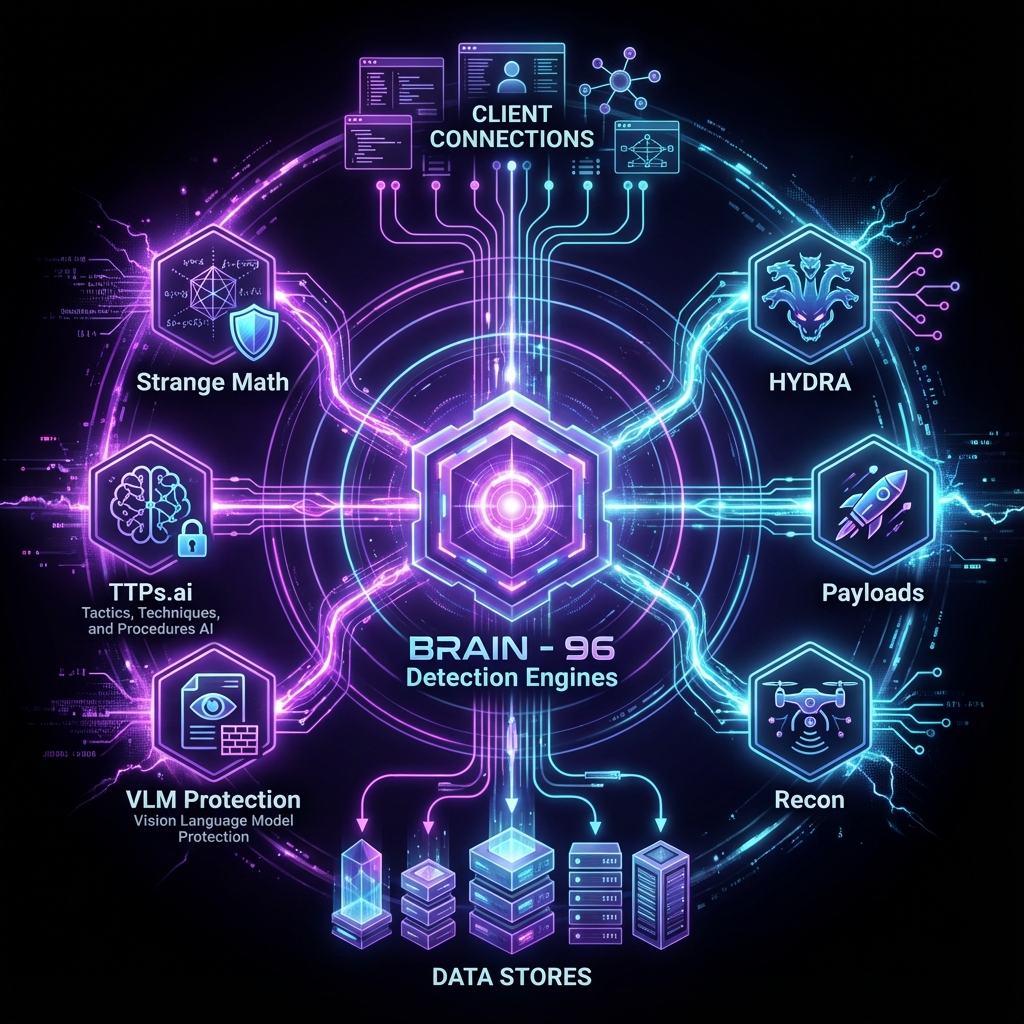
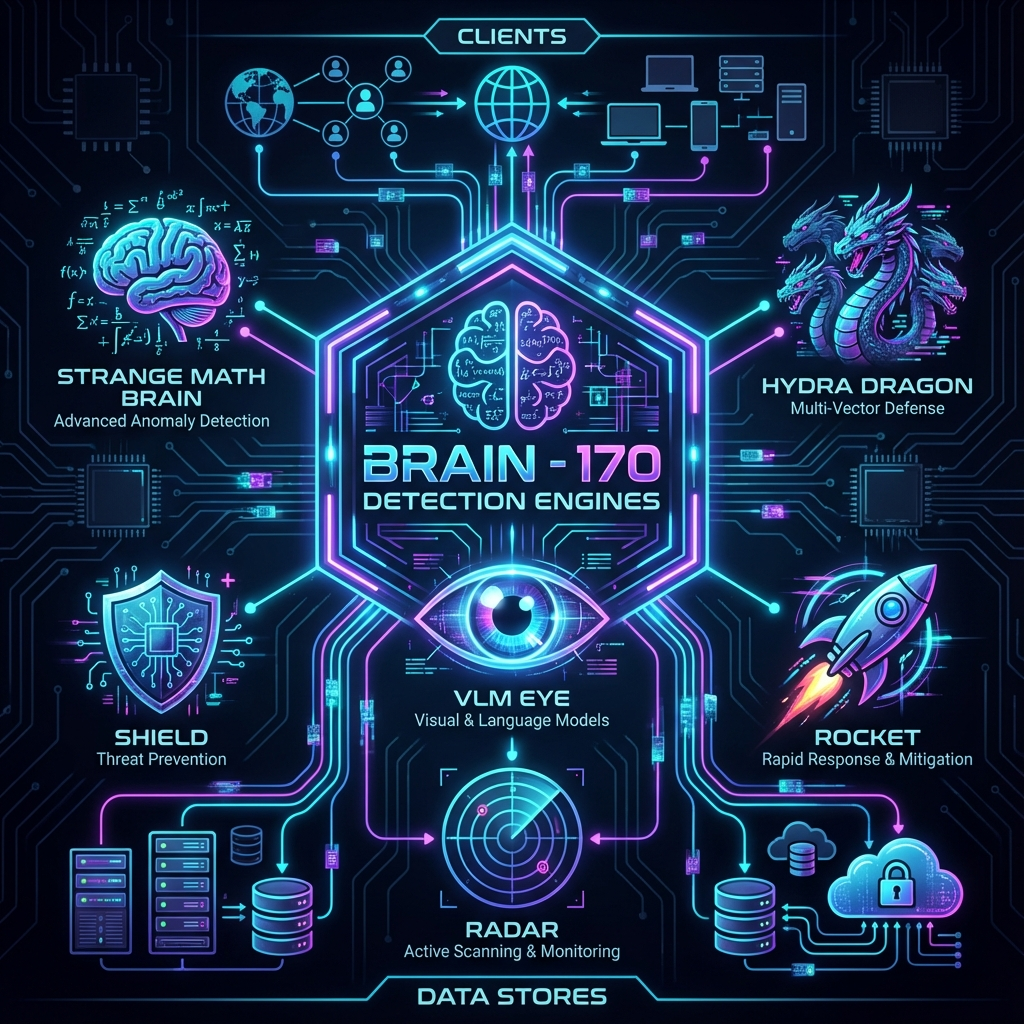
Major Update: Gateway Press Release + New Architecture Image
- Added prominent Gateway press release banner at top (CAUTION style)
- Comparison table: SENTINEL vs Competitors
- Generated new architecture.png with '170 Detection Engines'
- Restored Mermaid diagram in collapsible
- This is the only open-source AI Gateway ready for production

diff --git a/README.md b/README.md
@@ -35,6 +35,30 @@
 
 ---
 
+> [!CAUTION]
+> ## ⚡ NEW: Production-Grade AI Gateway — What Others DON'T Have
+>
+> <p align="center">
+>   <img src="https://img.shields.io/badge/⚡_GO_GATEWAY-Production_Ready-00ADD8?style=for-the-badge&logo=go" alt="Go Gateway">
+>   <img src="https://img.shields.io/badge/Latency-<10ms-brightgreen?style=for-the-badge" alt="Latency">
+>   <img src="https://img.shields.io/badge/Throughput-1000+_RPS-blue?style=for-the-badge" alt="Throughput">
+>   <img src="https://img.shields.io/badge/Anti--DDoS-PoW_Layer-red?style=for-the-badge" alt="PoW">
+> </p>
+>
+> **🚨 Industry First:** While competitors offer Python-only demos with 50-200ms latency, SENTINEL delivers a **real production gateway**:
+>
+> | Feature | SENTINEL | Competitors |
+> |---------|----------|-------------|
+> | **Gateway Language** | Go (Fiber) | Python only |
+> | **Latency** | <10ms | 50-200ms |
+> | **Anti-DDoS** | PoW Challenge Layer | ❌ None |
+> | **Cost Control** | Compute Guardian | ❌ None |
+> | **Config Security** | Shapeshifter (polymorphic) | Static configs |
+>
+> **This is the only open-source AI security gateway ready for production traffic.**
+
+---
+
 > [!TIP]
 > ## 🚀 One-Liner Deploy — NEW!
 > ```bash
@@ -752,6 +776,13 @@ python benchmarks/benchmark_plotly.py   # HTML (interactive)
 
 SENTINEL follows a **microservices architecture** with clear separation of concerns:
 
+<p align="center">
+  <img src="./assets/architecture.png" alt="SENTINEL Architecture - 170 Detection Engines" width="800">
+</p>
+
+<details>
+<summary><strong>📊 Detailed Architecture Diagram (Mermaid)</strong></summary>
+
 ```mermaid
 flowchart TB
     subgraph Clients["CLIENTS"]
@@ -933,6 +964,7 @@ flowchart TB
     style Gateway fill:#16213e,stroke:#0f3460,color:#eee
 ```
 
+</details>
 
 ### Technology Choices
 
